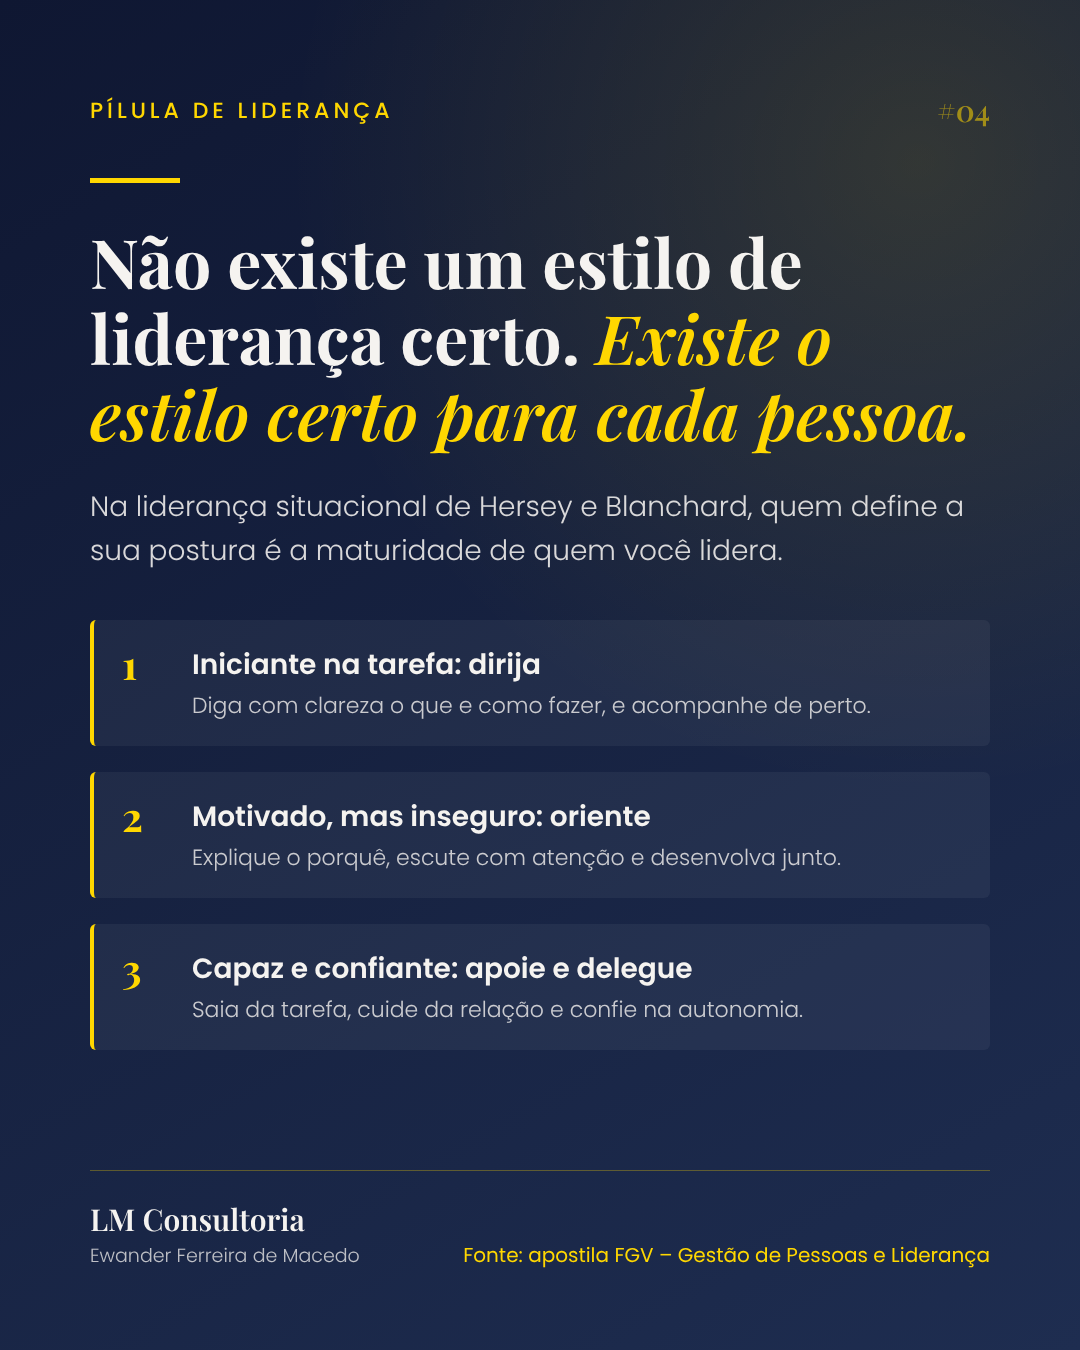
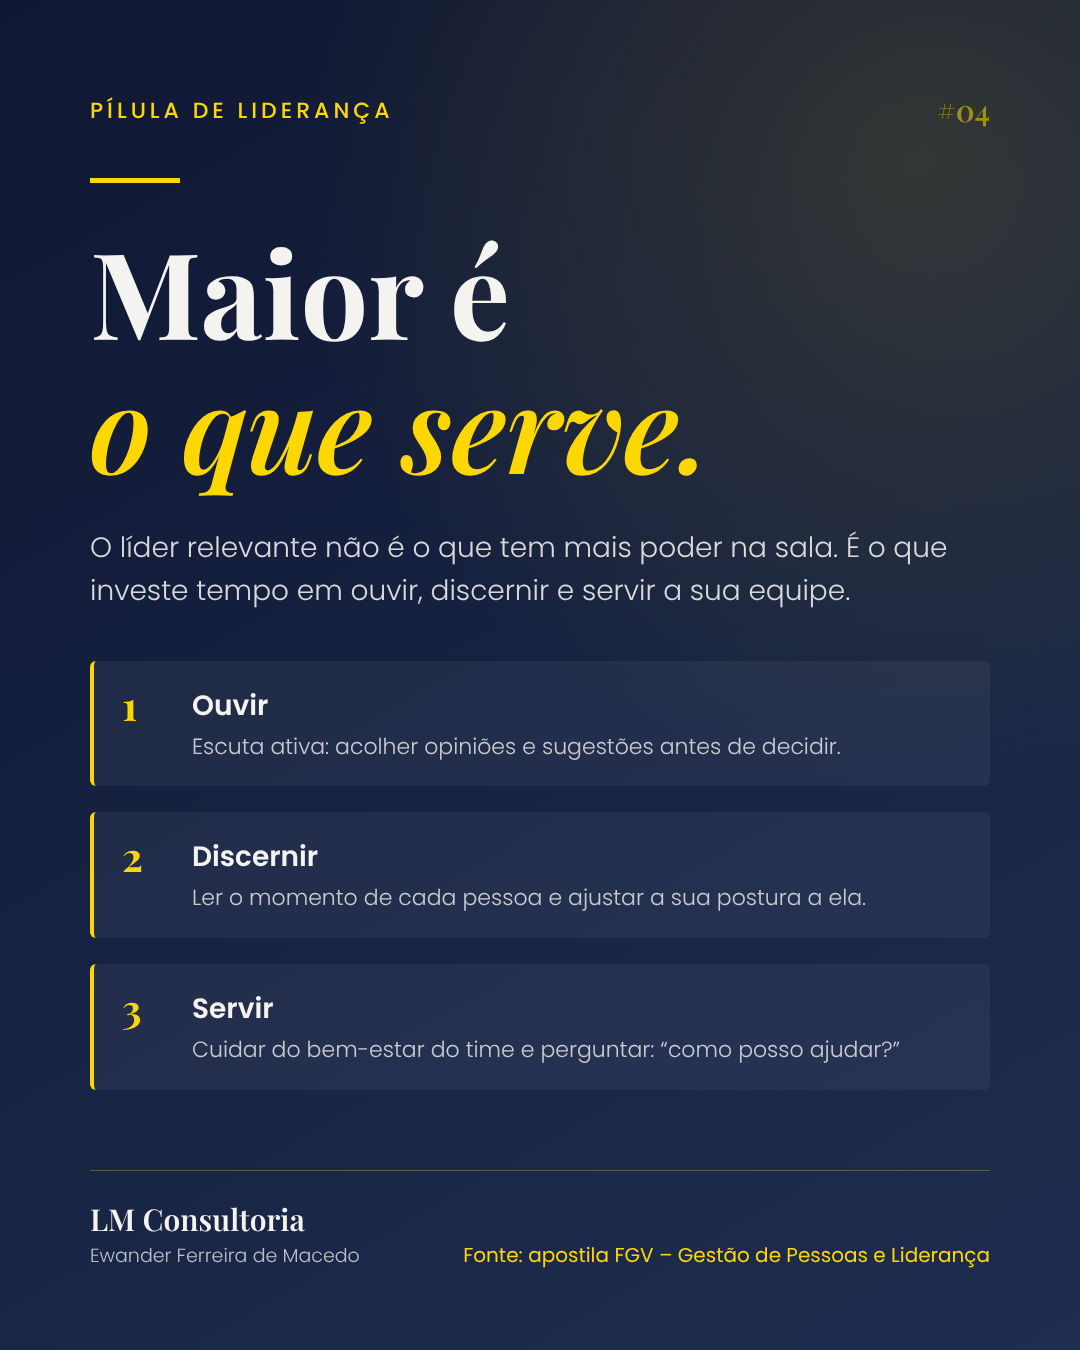
Pílula #04 refeita: "Maior é o que serve" (ouvir, discernir, servir)
Claude-Session: https://claude.ai/code/session_013VaPpx2UNFARMm9Cbui3Tg

diff --git a/posts/template.html b/posts/template.html
@@ -50,6 +50,7 @@
   document.getElementById('tag').textContent = p.tag;
   document.getElementById('num').textContent = p.num;
   document.getElementById('title').innerHTML = p.title;
+  if (p.titleSize) document.getElementById('title').style.fontSize = p.titleSize + 'px';
   document.getElementById('lead').textContent = p.lead;
   document.getElementById('cta').textContent = p.cta;
   document.getElementById('items').innerHTML = p.items.map((it, i) =>

diff --git a/posts/2026-11-16/legenda.md b/posts/2026-11-16/legenda.md
@@ -1,22 +1,24 @@
-Não existe um estilo de liderança certo. Existe o estilo certo para cada pessoa.
+Maior é o que serve.
 
-Um erro comum em líderes recém-promovidos é tratar a equipe inteira do mesmo jeito. Quem acompanha tudo de perto sufoca os mais experientes. Quem delega tudo deixa os iniciantes sem chão.
+Por muito tempo, associamos liderança a cargo, a poder de decisão e a quem fala por último na reunião.
 
-A apostila de Gestão de Pessoas e Liderança da FGV apresenta a Teoria Situacional, de Hersey e Blanchard. A ideia central é que o líder define as próprias ações a partir do nível de maturidade de cada liderado. Na prática:
+Mas os líderes que realmente fazem diferença na vida de uma equipe raramente são os que mais mandam. São os que mais se colocam à disposição.
 
-1⃣ Iniciante na tarefa: dirija (E1)
-Muito foco na tarefa. Dê orientações claras sobre o que e como fazer e acompanhe a execução de perto, porque a pessoa ainda não tem preparo suficiente para assumir sozinha.
+O líder relevante investe em três atitudes:
 
-2⃣ Motivado, mas ainda inseguro: oriente (E2)
-Foco alto na tarefa e no relacionamento. Explique o porquê, abra o diálogo com escuta ativa e considere as opiniões e sugestões da pessoa enquanto ela aprende.
+1⃣ Ouvir
+Antes de decidir, escuta. A apostila de Gestão de Pessoas e Liderança da FGV descreve isso como escuta ativa e reflexiva: conhecer e considerar as opiniões e sugestões de quem está na linha de frente. Quem se sente ouvido se compromete.
 
-3⃣ Capaz e confiante: apoie e delegue (E3 e E4)
-Reduza o foco na tarefa. Cuide da relação, compartilhe as decisões e, quando houver maturidade plena, delegue com confiança.
+2⃣ Discernir
+Cada pessoa vive um momento diferente. Uma precisa de direção clara. Outra precisa de orientação e diálogo. Outra só precisa de confiança e espaço. Discernir é ler essa maturidade e ajustar a própria postura, como propõe a Teoria Situacional de Hersey e Blanchard.
 
-O mesmo liderado pode estar em E1 em uma tarefa nova e em E4 naquilo que domina. Liderar bem é ler a situação antes de escolher a postura.
+3⃣ Servir
+É a liderança de apoio: o líder se preocupa com o bem-estar do time e tira os obstáculos do caminho. Na prática, isso cabe em uma pergunta simples, que a apostila de Gestão de Desempenho recomenda fazer a cada colaborador: "o que eu posso fazer para ajudar você?"
 
-💬 Pense na sua equipe: em qual estilo você costuma ficar "travado", mesmo quando a situação pede outro?
+Servir não é abrir mão de autoridade. É usar a autoridade a favor das pessoas e, por meio delas, dos resultados.
 
-📚 Fonte: FGV, apostila Gestão de Pessoas e Liderança (Teoria Situacional, p. 46–47).
+💬 Qual dessas três atitudes você mais valoriza no melhor líder que já teve?
 
-#Liderança #GestãoDePessoas #LiderançaSituacional #DesenvolvimentoDeLíderes #LMConsultoria
+📚 Fonte: FGV, apostilas Gestão de Pessoas e Liderança (p. 46–47) e Gestão de Desempenho (p. 33).
+
+#Liderança #LiderançaServidora #GestãoDePessoas #Propósito #LMConsultoria

diff --git a/posts/PLANO_EDITORIAL.md b/posts/PLANO_EDITORIAL.md
@@ -22,6 +22,7 @@ Consultor sênior falando com executivos e líderes: direto, reflexivo e prátic
 - `tag`: nome do pilar, por exemplo "Pílula de Carreira"
 - `num`: número sequencial (#01, #02…)
 - `title`: frase de impacto. Use `<em>` no trecho que deve ficar em dourado.
+- `titleSize` (opcional): tamanho do título em px, para frases curtas de destaque (padrão 68; a #04 usa 120)
 - `lead`: 1 a 2 frases
 - `items`: exatamente 3 itens `{h, p}`, com `p` de até cerca de 90 caracteres
 - `cta`: chamada curta
@@ -34,6 +35,6 @@ Para gerar a arte: `node posts/render.js posts/AAAA-MM-DD/post.json`
 | 01 | 2026-11-14 | Liderança e decisão | A complexidade não é o problema, ela é o trabalho: 3 movimentos para decidir sob pressão |
 | 02 | 2026-11-14 | Carreira (mentoria + FGV cc/gd) | Carreira não é escada, é plano: carreira horizontal, competências humanas e PDI |
 | 03 | 2026-11-15 | Estratégia e gestão (FGV gd p33–34) | Meta que não vira número vira opinião: método SMART e metas construídas em conjunto |
-| 04 | 2026-11-16 | Pessoas e liderança (FGV pl p46–47) | Estilo certo para cada pessoa: liderança situacional E1–E4 |
+| 04 | 2026-11-16 | Pessoas e liderança (FGV pl p46–47, gd p33) | Maior é o que serve: ouvir, discernir e servir (liderança de apoio + situacional) |
 
 Próximas sugestões do banco: avaliação 360° (gd p44), OKR (pj p40), feedback baseado em fatos (gd p86), Janela de Johari, campo de forças de Lewin, Canvas, PRINCE2 (pj p22).
